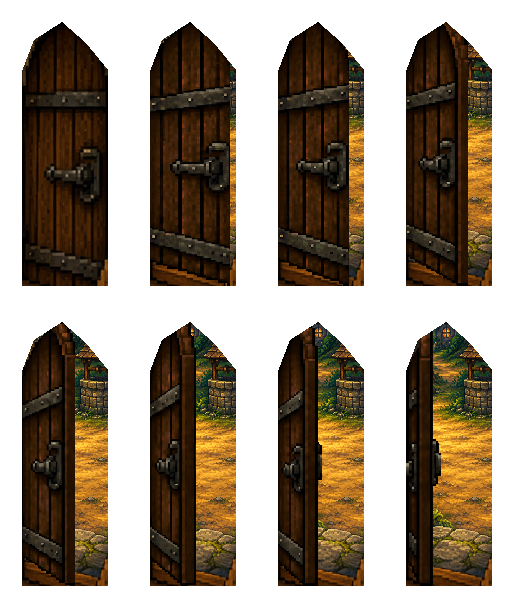
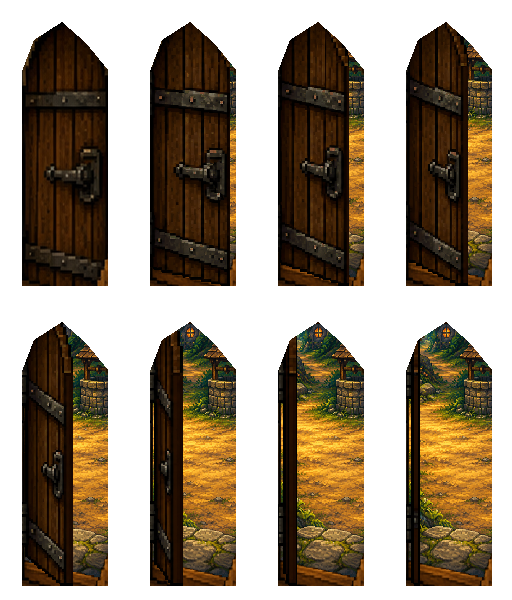
Fully open cottage doors and restore natural transition walk lines

diff --git a/demos/forest/src/transition-content.ts b/demos/forest/src/transition-content.ts
@@ -4,12 +4,11 @@ import type { AiAssetManifest } from '@ai-game-assets/core';
 import type { SceneDesignerManifest } from '@scene-designer/core';
 import { targets, type RoomId } from './story';
 import { roomEntryPointId } from './points';
-import { doorObjectId, doorPassageX, doorWorldAperture, forestDoors } from './door-layout';
+import { doorObjectId, doorWorldAperture, forestDoors } from './door-layout';
 
 export const transitionAreaId = (room: RoomId, to: RoomId) => `${room}.transition.to-${to}`;
 export const transitionOutsideId = (room: RoomId, to: RoomId) => `${room}.outside.to-${to}`;
 export const transitionThresholdId = (room: RoomId, to: RoomId) => `${room}.threshold.to-${to}`;
-export const transitionApproachId = (room: RoomId, to: RoomId) => `${room}.approach.to-${to}`;
 export const CAGE_APPROACH_AREA = 'camp.cage-approach';
 
 function continueWalkLine(inside: Point, threshold: Point): Point {
@@ -73,10 +72,6 @@ export function addForestTransitions(source: SceneDesignerManifest): SceneDesign
       if (scene.layers.some(layer => layer.prefabs?.some(point => point.id === id))) return;
       (layer.prefabs ??= []).push(createPointleshInstance({ id, name, prefabId: 'forest.point.entry', overrides: { x: { value: position.x }, y: { value: position.y } } }));
     };
-    const moveGeneratedPoint = (id: string, position: Point) => {
-      const instance = scene.layers.flatMap(layer => layer.prefabs ?? []).find(point => point.id === id)!;
-      instance.overrides = { ...instance.overrides, x: { value: position.x }, y: { value: position.y } };
-    };
     for (const target of targets[roomId].filter(target => target.exit)) {
       const to = target.exit!, entry = room.points.find(point => point.id === roomEntryPointId(roomId, to));
       if (!entry) continue;
@@ -87,33 +82,25 @@ export function addForestTransitions(source: SceneDesignerManifest): SceneDesign
       const maxY = aperture ? Math.max(...aperture.map(p => p.y)) : 0;
       const centerX = aperture ? (Math.min(...aperture.map(p => p.x)) + Math.max(...aperture.map(p => p.x))) / 2 : entry.position.x;
       const defaultThreshold = aperture ? { x: centerX, y: maxY + 4 } : roomId === 'village' ? { x: 481, y: 342 } : { x: entry.position.x, y: scene.height + 10 };
-      const previousThreshold = room.points.find(point => point.id === transitionThresholdId(roomId, to))?.position;
-      const migrateThreshold = !!door && !!previousThreshold && samePoint(previousThreshold, defaultThreshold);
-      const threshold = previousThreshold && !migrateThreshold ? previousThreshold : door ? { ...defaultThreshold, x: doorPassageX(door) } : defaultThreshold;
+      const threshold = room.points.find(point => point.id === transitionThresholdId(roomId, to))?.position ?? defaultThreshold;
       const spawn = room.objects.find(object => object.properties.role === 'player')?.position ?? entry.position;
       const inside = findClosestReachablePath(spawn, entry.position, walkablePolygons(room))?.at(-1) ?? entry.position;
-      // Line up below the leaf before walking through the opening. A diagonal
-      // straight to the old door center cut across the open panel at the sill.
-      const approach = door ? room.points.find(point => point.id === transitionApproachId(roomId, to))?.position
-        ?? { x: threshold.x, y: Math.max(inside.y, threshold.y + 115) } : undefined;
       const legacyOutside = { x: centerX, y: minY - 24 };
-      const defaultOutside = aperture ? continueWalkLine(approach ?? inside, threshold) : roomId === 'village' ? { x: 481, y: 247 } : { x: entry.position.x, y: scene.height + 230 };
+      const defaultOutside = aperture ? continueWalkLine(inside, threshold) : roomId === 'village' ? { x: 481, y: 247 } : { x: entry.position.x, y: scene.height + 230 };
       const previousOutside = room.points.find(point => point.id === transitionOutsideId(roomId, to))?.position;
-      const migrateOutside = !!aperture && !!previousOutside && (samePoint(previousOutside, legacyOutside)
-        || migrateThreshold && samePoint(previousOutside, continueWalkLine(inside, defaultThreshold)));
+      const migrateOutside = !!aperture && !!previousOutside && samePoint(previousOutside, legacyOutside);
       const outside = !previousOutside || migrateOutside ? defaultOutside : previousOutside;
       addPoint(transitionThresholdId(roomId, to), `Threshold · ${target.name}`, threshold);
-      if (migrateThreshold) moveGeneratedPoint(transitionThresholdId(roomId, to), threshold);
-      if (approach) addPoint(transitionApproachId(roomId, to), `Door approach · ${target.name}`, approach);
       addPoint(transitionOutsideId(roomId, to), `Offscreen / behind doorway · ${target.name}`, outside);
       if (migrateOutside) {
-        // Upgrade only old generated endpoints; preserve edited points.
-        moveGeneratedPoint(transitionOutsideId(roomId, to), outside);
+        // Upgrade only the old generated rooftop endpoint; preserve edited points.
+        const instance = scene.layers.flatMap(layer => layer.prefabs ?? []).find(point => point.id === transitionOutsideId(roomId, to))!;
+        instance.overrides = { ...instance.overrides, x: { value: outside.x }, y: { value: outside.y } };
       }
       const areaId = transitionAreaId(roomId, to);
       const legacyBounds = rectangle(Math.min(entry.position.x, defaultThreshold.x) - 44, aperture || roomId === 'village' ? -180 : Math.min(entry.position.y, defaultThreshold.y) - 45,
         Math.max(entry.position.x, defaultThreshold.x) + 44, aperture || roomId === 'village' ? entry.position.y + 45 : outside.y + 45);
-      const route = [entry.position, inside, ...(approach ? [approach] : []), threshold, outside];
+      const route = [entry.position, inside, threshold, outside];
       const vertices = aperture || roomId === 'village' ? rectangle(Math.min(...route.map(p => p.x)) - 44, Math.min(...route.map(p => p.y)) - 45,
         Math.max(...route.map(p => p.x)) + 44, Math.max(...route.map(p => p.y)) + 45) : legacyBounds;
       const corridor = scene.layers.flatMap(layer => layer.areas).find(area => isPointleshArea(area) && area.pointlesh.entityId === areaId);
@@ -205,9 +192,8 @@ export function forestPortal(manifest: SceneDesignerManifest, roomId: RoomId, to
   const spawn = room.objects.find(object => object.properties.role === 'player')?.position ?? entry;
   const inside = findClosestReachablePath(spawn, entry, walkablePolygons(room))?.at(-1) ?? entry;
   const door = forestDoors.find(door => door.room === roomId && door.to === to);
-  const approach = room.points.find(point => point.id === transitionApproachId(roomId, to) && point.enabled);
   return { roomId, areaId: transitionAreaId(roomId, to),
-    path: [inside, ...(approach ? [approach.position] : []), point(transitionThresholdId(roomId, to)), point(transitionOutsideId(roomId, to))],
+    path: [inside, point(transitionThresholdId(roomId, to)), point(transitionOutsideId(roomId, to))],
     ...(door && room.objects.find(object => object.id === doorObjectId(door))?.properties.doorAlwaysOpen !== true
       ? { doorId: doorObjectId(door), doorDurationMs: 900 } : {}) };
 }

diff --git a/e2e/room-transitions.spec.ts b/e2e/room-transitions.spec.ts
@@ -30,15 +30,11 @@ test('all room connections walk out and in with temporary corridors, animated do
           checkpoints.add(phase);
         }
         if (scene.actor.alpha !== 1) throw new Error(`Character opacity changed ${from}/${phase}`);
-        const waypoint = scene.roomTransition.snapshot().waypoint;
-        if (portal.path.length === 4 && (phase === 'exit' && waypoint >= 2 || phase === 'entry' && waypoint <= 1)) {
-          if (Math.abs(scene.character.state.position.x - portal.path.at(-2).x) > 0.01) throw new Error(`Crossed the open door diagonally ${from}/${phase}`);
-        }
         if (portal.doorId) {
           const foreground = scene.doorForegrounds.get(portal.doorId);
           const frame = scene.resolved().areas.find((area: any) => area.id === `${portal.doorId}.frame`);
-          if (!foreground || foreground.image.depth < frame.properties.baseline) throw new Error(`Wrong door baseline ${from}/${phase}`);
-          if (scene.actor.depth > frame.properties.baseline) ordered.add('front');
+          if (!foreground || foreground.image.depth !== frame.properties.baseline) throw new Error(`Wrong door baseline ${from}/${phase}`);
+          if (scene.actor.depth > foreground.image.depth) ordered.add('front');
           else ordered.add('behind');
         }
         const oldRoom = scene.story.roomId, oldPosition = { ...scene.character.state.position };
@@ -85,7 +81,7 @@ test('the king keeps continuous perspective as he crosses into the cage', async 
   for (let i = 1; i < scales.length; i++) expect(Math.abs(scales[i].height - scales[i-1].height)).toBeLessThan(1);
 });
 
-test('the open door remains solid through the whole crossing while the passage stays behind the actor', async ({ page }, testInfo) => {
+test('door pixels occlude actors behind the sill while the open passage stays behind them', async ({ page }, testInfo) => {
   await openAdventure(page);
   await page.getByRole('button', { name: 'Skip introduction', exact: true }).click();
   await page.evaluate(async () => {
@@ -93,14 +89,13 @@ test('the open door remains solid through the whole crossing while the passage s
     const api = (window as any).pointleshDemo, scene = api.scene;
     scene.game.loop.sleep(); scene.changeRoom('house');
     const from = forestPortal(api.manifest, 'house', 'village'), to = forestPortal(api.manifest, 'village', 'house');
-    scene.roomTransition.restore({ from, to, phase: 'exit', elapsedMs: 0, waypoint: from.path.length - 2 });
-    const sill = from.path.at(-2);
-    scene.character.place({ x: sill.x, y: sill.y + 20 }); scene.binding.sync(); scene.syncTransitionDoors();
+    scene.roomTransition.restore({ from, to, phase: 'close-exit', elapsedMs: 450, waypoint: 0 });
+    scene.character.place(from.path.at(-1)); scene.binding.sync(); scene.syncTransitionDoors();
     const foreground = scene.doorForegrounds.get(from.doorId), bounds = foreground.image.getBounds();
     // A solid actor silhouette makes pixel coverage independent of character art.
     scene.actor.setVisible(false);
     scene.add.rectangle(bounds.x, bounds.y, bounds.width, bounds.height, 0xff00ff)
-      .setOrigin(0).setDepth(scene.actor.depth).setName('occlusion-probe');
+      .setOrigin(0).setDepth(foreground.image.depth - 1).setName('occlusion-probe');
     scene.scene.pause(); scene.game.loop.wake();
   });
   const capture = async (name: string) => {
@@ -122,14 +117,7 @@ test('the open door remains solid through the whole crossing while the passage s
   const front = await capture('in-front-of-door');
   expect(behind).toBeGreaterThan(100); // The backdrop cannot hide the entire actor.
   expect(passage - behind).toBeGreaterThan(100); // Only the leaf removes coverage.
-  expect(front).toBe(passage); // Once in front of the leaf, none of its pixels cover the actor.
-  const released = await page.evaluate(() => {
-    const scene = (window as any).pointleshDemo.scene;
-    scene.roomTransition.cancel(); scene.syncTransitionDoors();
-    return { leaf: scene.doorForegrounds.get('house.door.house').image.depth,
-      baseline: scene.resolved().areas.find((area: any) => area.id === 'house.door.house.frame').properties.baseline };
-  });
-  expect(released.leaf).toBe(released.baseline);
+  expect(front).toBeGreaterThan(passage); // Walking forward clears both leaf and frame.
 });
 
 test('thin door-mask pieces remain opaque at every camera zoom', async ({ page }, testInfo) => {

diff --git a/demos/forest/scripts/build-door-occlusion.ts b/demos/forest/scripts/build-door-occlusion.ts
@@ -8,7 +8,8 @@ import { forestDoors } from '../src/door-layout.js';
 // the same native registration as pack-door-corrections.ts. Older gate sheets
 // have authored leaf silhouettes; their cool passage pixels never occlude actors.
 const input = process.argv[2];
-if (!input) throw new Error('Usage: tsx build-door-occlusion.ts DIRECTORY_WITH_CORRECTED_LEAVES');
+if (!input) throw new Error('Usage: tsx build-door-occlusion.ts DIRECTORY_WITH_CORRECTED_LEAVES [DOOR_ID...]');
+const doorIds = process.argv.slice(3);
 type Rect = [number, number, number, number];
 function cell(sheet: PNG, i: number) {
   const left = Math.round(i % 4 * sheet.width / 4), top = Math.round(Math.floor(i / 4) * sheet.height / 2);
@@ -35,8 +36,9 @@ function rectangles(mask: Uint8Array, width: number, height: number): Rect[] {
   }
   return result;
 }
-const result: Record<string,Rect[][]>={};
-for(const door of forestDoors) {
+const output = new URL('../src/door-occlusion.json', import.meta.url);
+const result: Record<string,Rect[][]> = doorIds.length ? JSON.parse(await readFile(output, 'utf8')) : {};
+for(const door of forestDoors.filter(door => !doorIds.length || doorIds.includes(door.id))) {
   const {width,height}=door.crop, frames: Rect[][]=[];
   const standalone=['house','pub','village-house'].includes(door.id);
   const leaves=standalone?PNG.sync.read(await readFile(`${input}/${door.id}-leaf.png`)):undefined;
@@ -76,5 +78,5 @@ for(const door of forestDoors) {
   result[door.id]=frames;
 }
 const json = '{\n' + Object.entries(result).map(([id, frames]) => `  ${JSON.stringify(id)}: [\n${frames.map(frame => `    ${JSON.stringify(frame)}`).join(',\n')}\n  ]`).join(',\n') + '\n}\n';
-await writeFile(new URL('../src/door-occlusion.json',import.meta.url),json);
-console.log('Packed native-pixel foreground masks for all seven doors.');
+await writeFile(output,json);
+console.log(`Packed native-pixel foreground masks for ${doorIds.length ? doorIds.join(', ') : 'all seven doors'}.`);

diff --git a/demos/forest/src/main.ts b/demos/forest/src/main.ts
@@ -530,7 +530,6 @@ class ForestAdventure extends Phaser.Scene {
     return this.roomTransition.portal?.doorId === id && this.roomTransition.phase?.startsWith('close') ? 'close' : 'open';
   }
   private syncTransitionDoors(): void {
-    const transition = this.roomTransition.snapshot();
     for (const object of this.resolved().objects.filter(object => object.properties.role === 'door')) {
       const sprite = this.entitySprites.get(object.id), animation = this.objectAnimations.get(object.id);
       const progress = object.properties.doorAlwaysOpen === true ? 1 : this.roomTransition?.portal?.doorId === object.id ? this.roomTransition.doorProgress : 0;
@@ -553,15 +552,7 @@ class ForestAdventure extends Phaser.Scene {
         // Match the frame selected by the object renderer (including reverse
         // playback), rather than independently advancing an occlusion clock.
         const index = Number(sprite.frame.name);
-        const portal = this.roomTransition.portal;
-        const crossing = transition && portal?.areaId === `${door.room}.transition.to-${door.to}` && (
-          transition.phase === 'exit' && transition.waypoint >= portal.path.length - 2 ||
-          transition.phase === 'entry' && transition.waypoint <= portal.path.length - 2);
-        // The route passes beside the open leaf. Keep that panel in front of
-        // the crossing sprite, rather than swapping through its shoulder when
-        // the foot reaches the jamb baseline. Release it once clear of the door.
-        foreground.sync(Number.isInteger(index) && index >= 0 && index < 8 ? index : Math.min(7, Math.floor(progress * 8)), baseline,
-          crossing ? this.actor.depth + 1 : baseline);
+        foreground.sync(Number.isInteger(index) && index >= 0 && index < 8 ? index : Math.min(7, Math.floor(progress * 8)), baseline);
       }
     }
   }

diff --git a/demos/forest/src/door-foreground.ts b/demos/forest/src/door-foreground.ts
@@ -19,12 +19,12 @@ export class DoorForeground {
     return { id: this.door.id, areaId: this.door.id, name: this.door.name, layerId: 'door-foreground', kind: 'walk-behind',
       properties: { baseline }, behaviors: [], enabled, closed: true, polygon: [] };
   }
-  sync(frame: number, baseline: number, minimumDepth = baseline): void {
+  sync(frame: number, baseline: number): void {
     const s = this.source;
     this.image.setTexture(s.texture.key, s.frame.name).setPosition(s.x, s.y).setScale(s.scaleX, s.scaleY)
       .setOrigin(s.originX, s.originY).setRotation(s.rotation).setFlip(s.flipX, s.flipY).setAlpha(s.alpha);
     const signature = JSON.stringify([frame, baseline, s.visible, s.x, s.y, s.scaleX, s.scaleY, s.rotation, s.originX, s.originY, s.flipX, s.flipY, s.displayWidth, s.displayHeight]);
-    if (signature === this.signature) { this.image.setDepth(Math.max(baseline, minimumDepth)); return; }
+    if (signature === this.signature) return;
     this.signature = signature;
     const rectangles = (masks as Record<string, number[][][]>)[this.door.id]?.[frame] ?? [];
     const matrix = s.getWorldTransformMatrix();
@@ -32,6 +32,5 @@ export class DoorForeground {
     const point = (x: number, y: number) => matrix.transformPoint(((s.flipX ? 1 - x / width : x / width) - s.originX) * s.width, ((s.flipY ? 1 - y / height : y / height) - s.originY) * s.height);
     const polygons = rectangles.map(([x, y, w, h]) => [point(x!, y!), point(x! + w!, y!), point(x! + w!, y! + h!), point(x!, y! + h!)]);
     this.overlay.sync(this.area(baseline, s.visible), polygons);
-    this.image.setDepth(Math.max(baseline, minimumDepth));
   }
 }

diff --git a/demos/forest/src/door-layout.ts b/demos/forest/src/door-layout.ts
@@ -1,6 +1,5 @@
 import type { Point } from '@pointlesh/core';
 import type { RoomId } from './story';
-import doorMasks from './door-occlusion.json';
 
 export type ForestDoorLayout = {
   id: string; room: RoomId; to: RoomId; targetId: string; name: string; background: string;
@@ -27,16 +26,3 @@ export const forestDoors: ForestDoorLayout[] = [
 ];
 export const doorObjectId = (door: ForestDoorLayout) => `${door.room}.door.${door.id}`;
 export const doorWorldAperture = (door: ForestDoorLayout) => door.aperture.map(p => ({ x: (door.crop.left + p.x) * door.scaleX, y: (door.crop.top + p.y) * door.scaleY }));
-
-/** Center the walking lane in the OPEN passage, clear of either door leaf. */
-export function doorPassageX(door: ForestDoorLayout): number {
-  const left = Math.min(...door.aperture.map(point => point.x)), right = Math.max(...door.aperture.map(point => point.x));
-  const rectangles = (doorMasks as Record<string, number[][][]>)[door.id]!.at(-1)!;
-  const intervals = rectangles.map(([x, , width]) => [x!, x! + width!] as const).sort((a, b) => a[0] - b[0]);
-  let cursor = left, start = left, end = left;
-  for (const [minimum, maximum] of [...intervals, [right, right]]) {
-    if (minimum - cursor > end - start) { start = cursor; end = minimum; }
-    cursor = Math.max(cursor, maximum);
-  }
-  return (door.crop.left + (start + end) / 2) * door.scaleX;
-}

diff --git a/docs/cottage-door-opening.md b/docs/cottage-door-opening.md
@@ -1,0 +1,30 @@
+# Fully opening cottage doors
+
+The interior and exterior cottage leaves now rotate to a narrow edge-on pose. The original leaves still covered approximately 40% and 26% of their openings; the replacements cover approximately 16% and 9%, including hinge hardware. The original closed-door pixels, aperture, palette matching, and fixed view plates are retained.
+
+The route follows the original entry–threshold line, continued a short distance beyond the sill. The vertical approach detour and its extra foreground-depth override have been removed. Door leaves and jambs use their authored baselines again.
+
+Mode: built-in imagegen, with the original closed door as the edit reference. Final source sheets and registered view plates are in `demos/forest/art-source/doors/`. The runtime assets are `demos/forest/public/art/objects/doors/house-open.png` and `village-house-open.png`; opening and closing use the same frames in opposite order. `demos/forest/src/door-occlusion.json` is rebuilt from the same source silhouettes.
+
+Rebuild:
+
+```sh
+npx tsx demos/forest/scripts/pack-door-corrections.ts demos/forest/art-source/doors house village-house
+npx tsx demos/forest/scripts/build-door-occlusion.ts demos/forest/art-source/doors house village-house
+```
+
+## Interior prompt
+
+Reference: `demos/forest/public/art/objects/doors/house.png`.
+
+```text
+Use case: precise-object-edit. This is the exact original closed wooden door for a pixel-art game. Make its OPENING ANIMATION as a transparent sprite sheet. 4 columns, 2 rows, 8 equal cells. CRITICAL: the door must swing a FULL 90 DEGREES inward about its left hinge, reaching a true nearly invisible edge-on position. It must NOT end partly open. At closed frame1 you see the full wooden face and original latch. In frame2 its projected width is 90% of frame1; frame3 78%; frame4 60%; frame5 40%; frame6 20%; frame7 8%; frame8 ONLY 4% of frame1 width: a VERY THIN VERTICAL DARK LINE of wood thickness, the latch is concealed on the far side, NO visible front face, no wide strip, no broad handle. The narrow final edge is the same height as the left hinge edge in frame1. A rigid slab rotation, not melting; hinge and bottom hinge location remain stationary within all cells; every frame same scale and coordinate origin. Preserve the original dark brown wood, very dark muted iron bands, arch top, pixel texture, door proportions, hardware identity in the frames where the face is visible. No frame or arch surround, no scenery, no lighting glow, no floor, no cast shadows, no labels or numbers. All pixels outside the door are alpha-zero transparent. Return the 8 poses in reading order. Complete door in every cell, with margins. Final pose is just a tiny edge occupying 4% of the CLOSED pose width, which is essential to allow a character to pass.
+```
+
+## Exterior prompt
+
+Reference: `demos/forest/public/art/objects/doors/village-house.png`.
+
+```text
+Use case: precise-object-edit. This is the exact original OUTSIDE cottage door for a pixel-art game. Make its OPENING ANIMATION as a transparent sprite sheet of ONLY THE MOVING WOODEN DOOR LEAF. 4 columns, 2 rows, 8 equal cells. CRITICAL: the door must swing a FULL 90 DEGREES inward about its left hinge, reaching a true nearly invisible edge-on position. It must NOT end partly open. At closed frame1 you see the full wooden face and original ring handle. In frame2 its projected width is 90% of frame1; frame3 78%; frame4 60%; frame5 40%; frame6 20%; frame7 8%; frame8 ONLY 4% of frame1 width: a VERY THIN VERTICAL DARK LINE of wood thickness, handle concealed on far side, NO visible front face, no wide strip, no broad ring. The narrow final edge is the same height as the left hinge edge in frame1. A rigid slab rotation, not melting; hinge and bottom hinge location remain stationary within all cells; every frame same scale and coordinate origin. Preserve the original subdued dark brown wood, very dark iron studs/hinges/ring handle, rounded arch top, coarse pixel texture, door proportions, hardware identity in frames where face is visible. Do NOT include the doorframe, stone arch, wood tree surround, scenery, floor, cast shadow or glow, labels or numbers. All pixels outside moving door alpha-zero transparent. Return 8 poses in reading order, entire leaf in every cell with margins. The final pose is just a tiny edge occupying 4% of CLOSED pose width, which is essential to allow a character to pass.
+```

diff --git a/docs/runtime.md b/docs/runtime.md
@@ -37,11 +37,11 @@ Save `transition.snapshot()` together with the character snapshot. Restore both 
 
 For a doorway, keep the last segment short and continue the approach line through the sill. Characters retain their normal opacity throughout the transition. Draw the view through the doorway behind actors and the moving door leaf and jambs at their authored baselines, so foot depth determines which parts cover the character. Do not use the top of the door image as a walking destination. Open screen-edge exits walk fully offscreen.
 
-`createWalkBehindOverlay(...).sync(area, polygons)` accepts optional disjoint foreground pieces for gates or animated leaves; omitting them uses the area's polygon. The forest demo keeps the full doorway image behind actors and draws a masked copy of its current animation frame at the door-frame area's editable baseline. While an actor traverses the passage, the leaf stays above that sprite so it cannot switch through an overlapping shoulder at the sill; ordinary depth sorting resumes when the actor clears the approach point. The jambs retain their authored baseline throughout. Native-pixel masks live in `door-occlusion.json`, built by `scripts/build-door-occlusion.ts`; regenerate them when changing a door's silhouette. The mask follows the same frame on open, close, and restored transitions, and never changes character alpha.
+`createWalkBehindOverlay(...).sync(area, polygons)` accepts optional disjoint foreground pieces for gates or animated leaves; omitting them uses the area's polygon. The forest demo keeps the full doorway image behind actors and draws a masked copy of its current animation frame at the door-frame area's editable baseline. Native-pixel masks live in `door-occlusion.json`, built by `scripts/build-door-occlusion.ts`; regenerate them when changing a door's silhouette. The mask follows the same frame on open, close, and restored transitions, and never changes character alpha.
 
 Every area owns its scale and zoom independently. Effects apply only while the character is inside that enabled area. Start/end always interpolate over that area's current geometry: top/bottom along Y or left/right along X. For example, scale .25 at start and .75 at end yields .50 halfway down the shape. Moving vertices moves the interpolation endpoints too. There is no separate coordinate range or shared source area. New transition corridors initialize their endpoint values by extending the adjacent floor's slope to their own edges, then remain independently editable.
 
-The forest demo stores editable inside, threshold and concealed/offscreen points for every connection, temporary corridors, and seven animated door objects. Doors also have an editable approach point: the default route lines up below the opening and crosses the sill through the clear gap beside the fully open leaf, then reverses the same route on arrival. This avoids a diagonal path through the panel. Existing customized points and corridor perspective remain unchanged. The mine uses its open tunnel entrance. The cage has a separate temporary approach region sharing the camp floor's perspective for cinematic actors and the king in the cage.
+The forest demo stores editable inside, threshold and concealed/offscreen points for every connection, temporary corridors, and seven animated door objects. The mine uses its open tunnel entrance. The cage has a separate temporary approach region sharing the camp floor's perspective for cinematic actors and the king in the cage.
 
 ## Characters
 

diff --git a/docs/doorway-art-followup.md b/docs/doorway-art-followup.md
@@ -4,6 +4,8 @@ Mode: built-in image generation, editing the original doorway crops with Bramble
 
 The moving leaves subsequently received a [palette correction](door-palette-correction.md) to match the original painted doors. The fixed exterior views below remain unchanged.
 
+The two cottage leaves were subsequently replaced with [fully opening poses](cottage-door-opening.md). Use those source sheets for cottage rebuilds.
+
 Final files under `demos/forest/public/art/objects/doors/`: `house-view.png`, `house-open.png`, `pub-view.png`, `pub-open.png`, and `pub.png`. The view plates are single fixed images at each doorway's native crop dimensions; every opening/closing frame composites its door leaf over that identical view. Exterior threshold geometry comes from the original room; no per-frame fitting or scenery animation occurs. The tavern remains permanently open in gameplay.
 
 The reference crops were enlarged 4× with nearest-neighbor for generation: cottage (1022,125,160,365), pub (960,90,205,320). Register the returned still to that same crop, then extract the door patch at (18,20,128,300) or (15,20,159,275) respectively. Preserve pixels only within `door-layout.ts`'s aperture. `pack-door-corrections.ts` expects those native-size `house-view.png`/`pub-view.png` plates and transparent 4×2 `house-leaf.png`/`pub-leaf.png` sheets. Closed frame zero retains the original room artwork; the tavern base is the final open pose.
